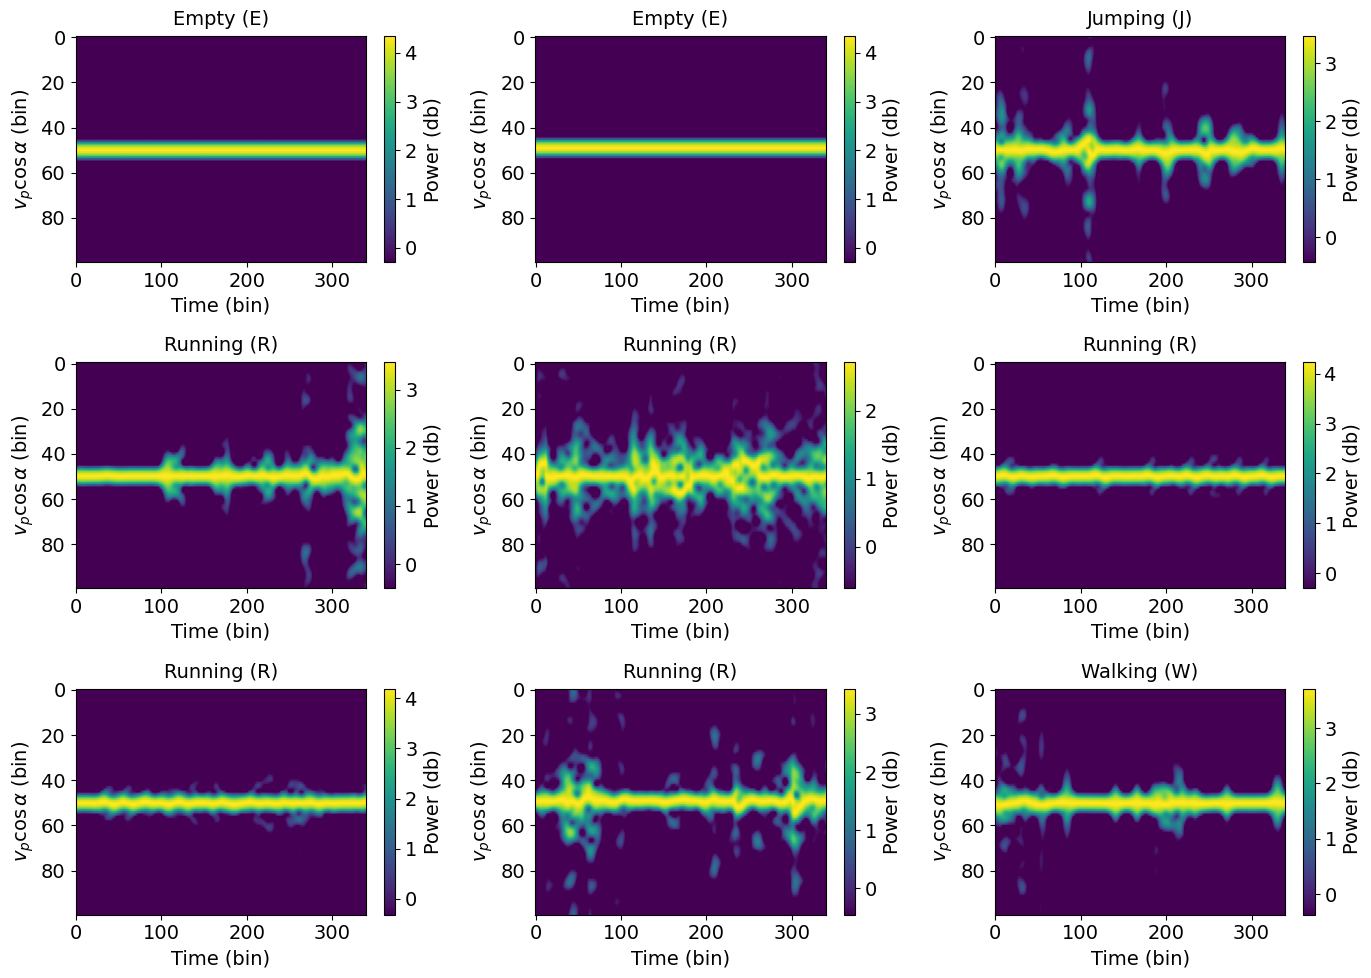
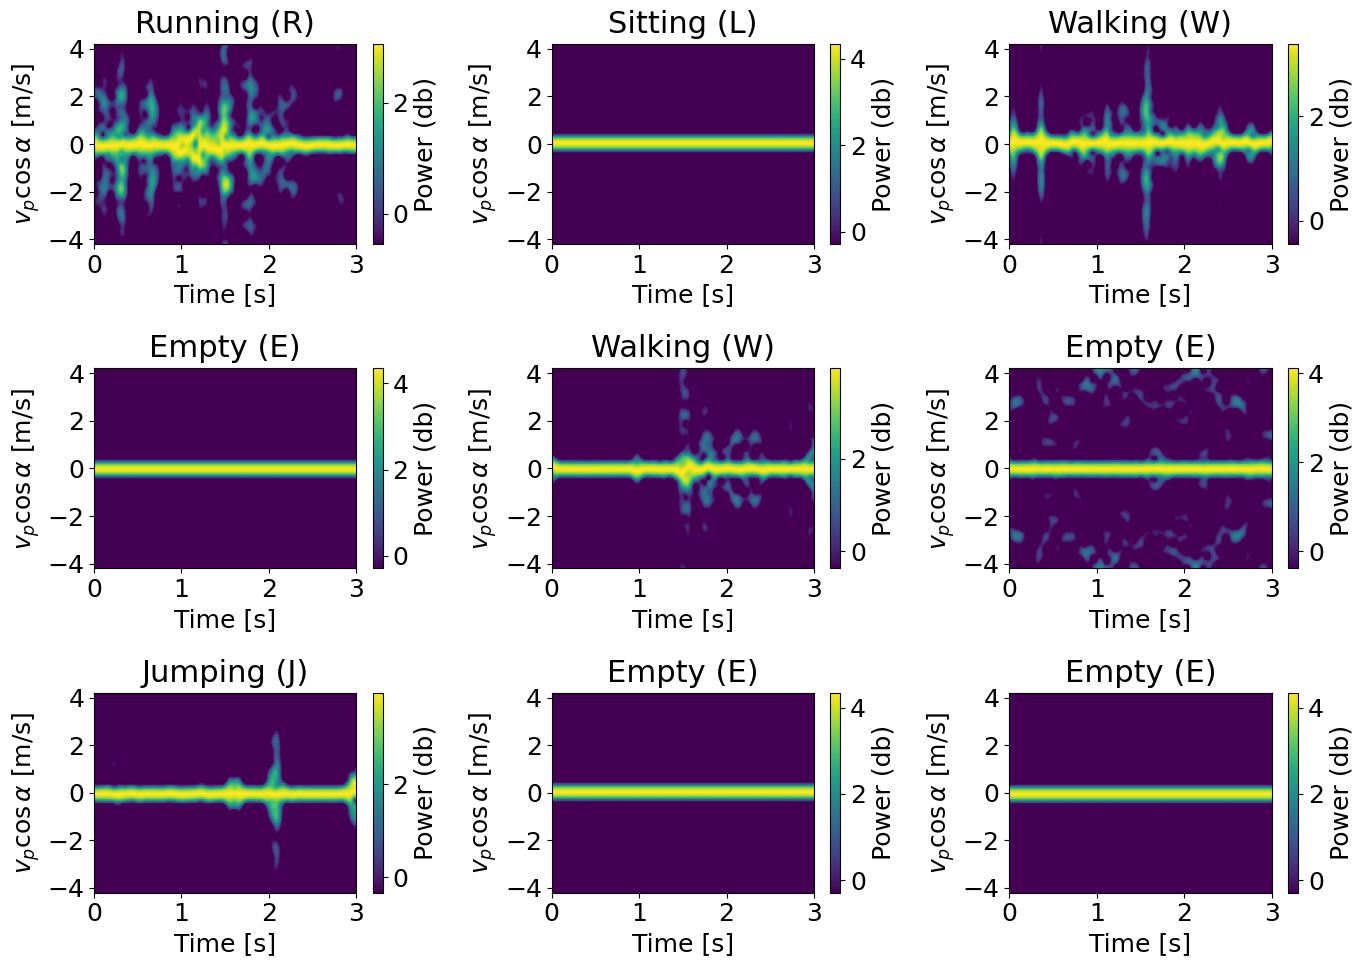
nuovi plot, push finale si spera dajeee£

Changed region(s): [[0.0, 0.0, 1.0, 0.6522], [0.0, 0.6832, 1.0, 0.9938]]

diff --git a/utilities/plotting.py b/utilities/plotting.py
@@ -26,13 +26,20 @@ def plot_dataset(cols, rows, dataset, activities, labels):
         img, label_idx = dataset[sample_idx]
         
         ax = axes[i]
-        im = ax.imshow(img[0, :, :], aspect='auto', cmap='viridis')
+        im = ax.imshow(
+            img[0, :, :], 
+            aspect='auto', 
+            cmap='viridis', 
+            extent=(0, 3, -4.2, 4.2)
+            )
         
         ax.set_title(f"{activities[label_idx]} ({labels[label_idx]})", pad=8)
         
-        ax.set_xlabel("Time (bin)")
-        ax.set_ylabel(r"$v_p \cos \alpha$ (bin)",)
+        ax.set_xlabel("Time [s]")
+        ax.set_ylabel(r"$v_p \cos \alpha$ [m/s]",)
         ax.tick_params(axis='both', which='major')
+        ax.set_yticks([-4, -2, 0, 2, 4])
+        ax.set_xticks(np.linspace(0, 3, 4))
         
         cbar = fig.colorbar(im, ax=ax)
         cbar.set_label('Power (db)')
